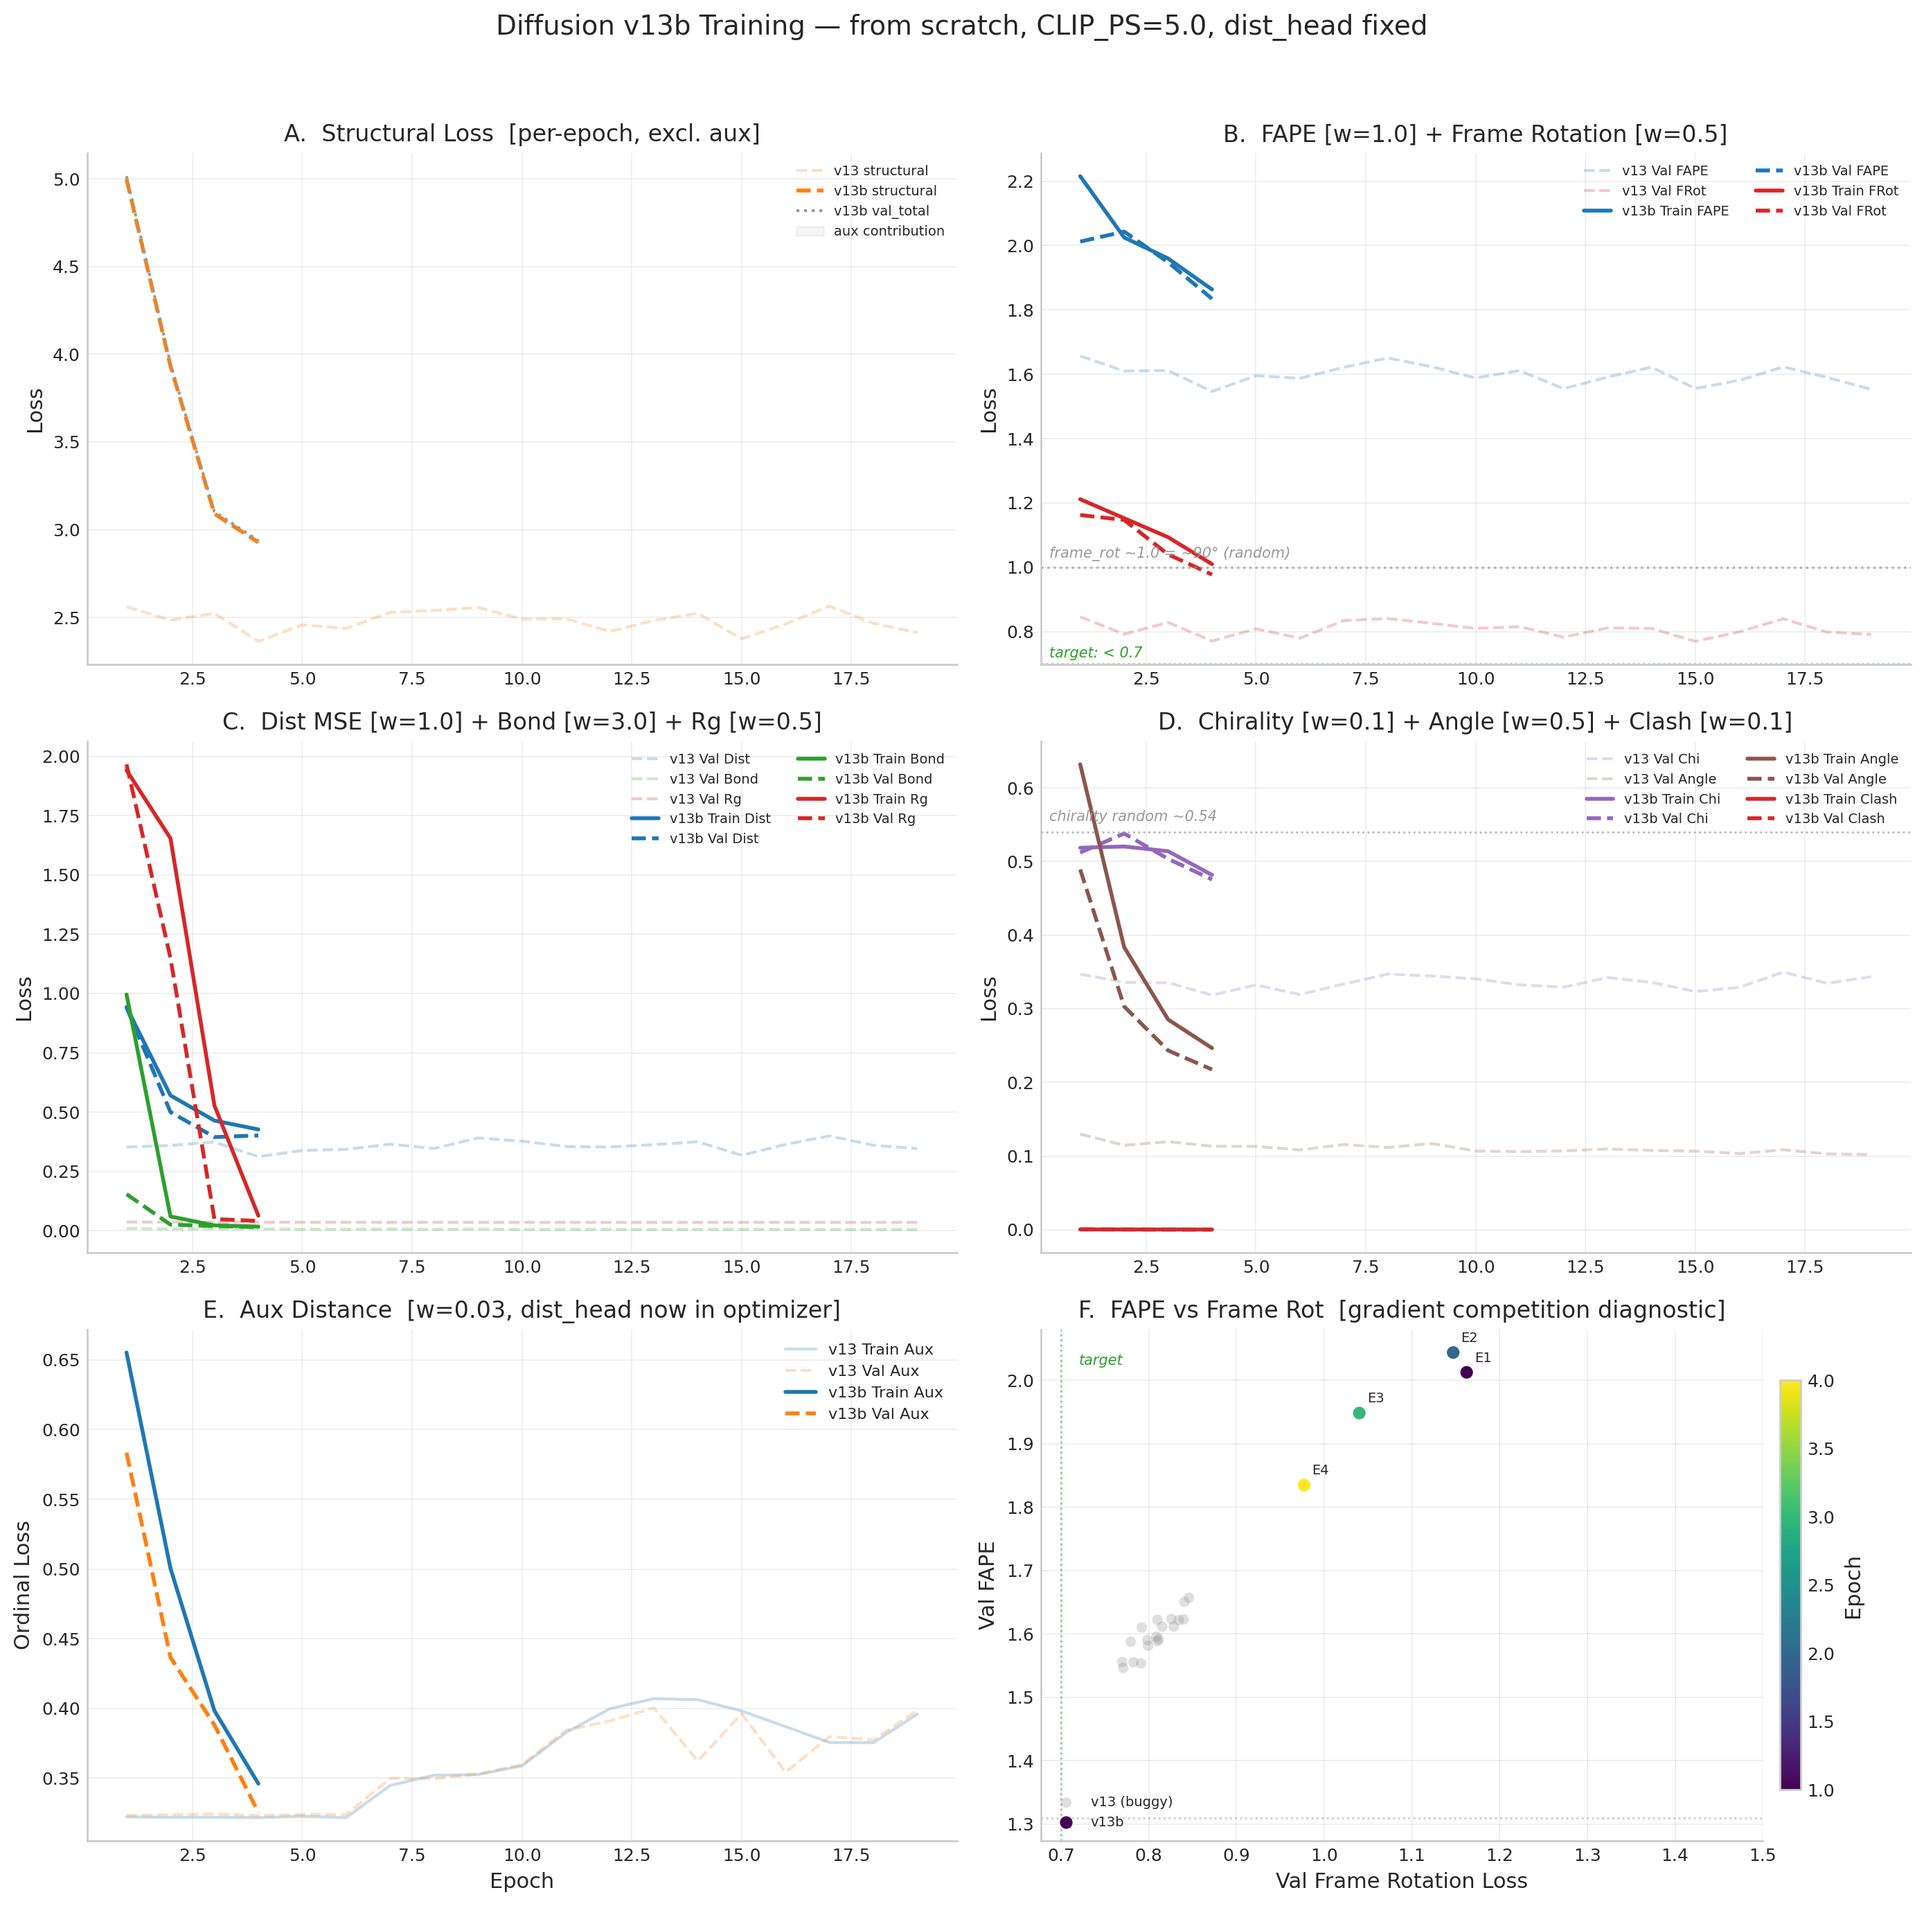
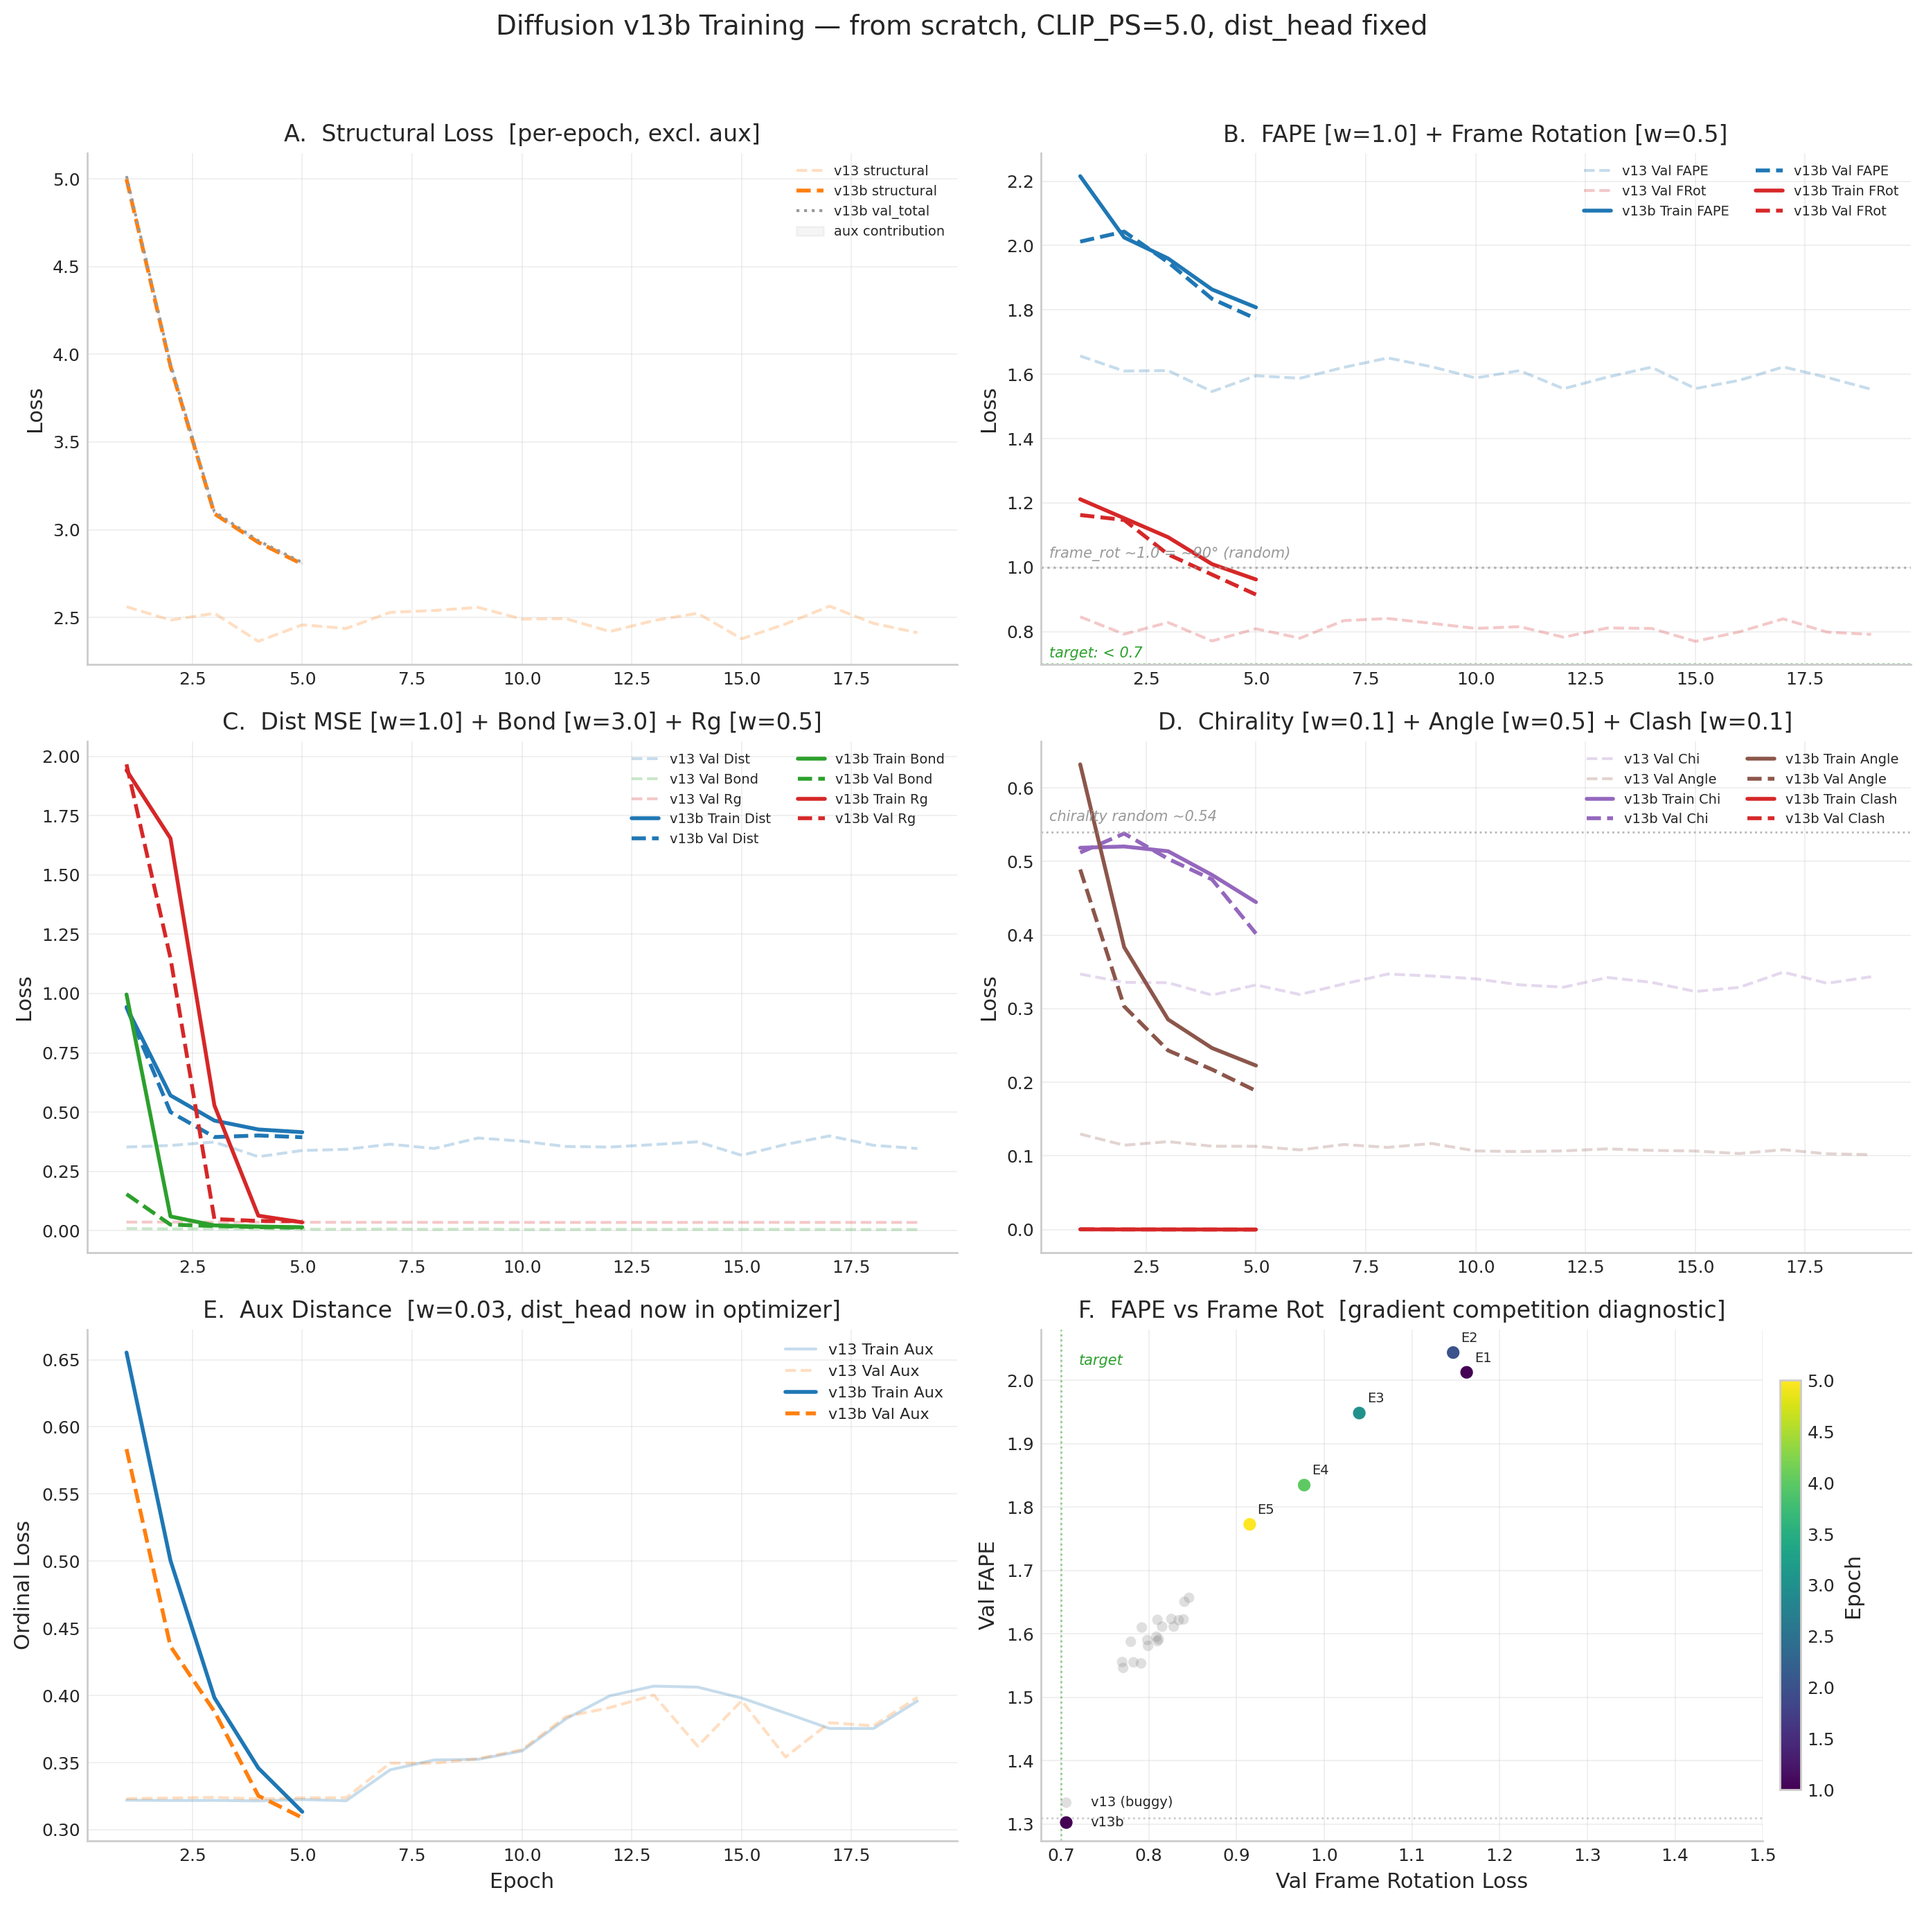
update v13b E5, v14 run2 from scratch

diff --git a/minifold.html b/minifold.html
@@ -433,6 +433,20 @@
               <td>&mdash;</td>
               <td><span class="tag tag-best">NEW BEST</span></td>
             </tr>
+            <tr>
+              <td><strong>5</strong></td>
+              <td style="color: #2ca02c;"><strong>2.804</strong></td>
+              <td>1.773</td>
+              <td>0.915</td>
+              <td>0.394</td>
+              <td>0.013</td>
+              <td>0.309</td>
+              <td>0.402</td>
+              <td>0.189</td>
+              <td>0.040</td>
+              <td>&mdash;</td>
+              <td><span class="tag tag-best">NEW BEST</span></td>
+            </tr>
           </tbody>
         </table>
       </div>
@@ -538,7 +552,7 @@
       <div class="arch-feature">
         <div class="af-label">Initialization</div>
         <div class="af-value">
-          Initialized from v13/v12b weights via <code>strict=False</code>. All existing modules (denoiser, pair stack, aux heads) load exact weights; the backbone reconstruction head trains from scratch.
+          <strong>run2:</strong> Training from scratch (no weight init). run1 used v13 weights via <code>strict=False</code> but plateaued due to bugs. run2 fixes: AuxPairStack contact conditioning, bb_rmsd metric, improved NaN fallback.
         </div>
       </div>
 
@@ -574,7 +588,16 @@
       </div>
 
       <!-- Training Table -->
-      <h4 class="training-progress-heading" style="margin-top: 24px;">v14 Training Progress</h4>
+      <h4 class="training-progress-heading" style="margin-top: 24px;">v14 run2 Training Progress</h4>
+      <div class="training-observations" style="border-left: 3px solid #2ca02c; padding-left: 14px; margin: 12px 0 12px 0;">
+        <p style="font-size: 0.92em; line-height: 1.6; margin: 4px 0;">
+          <strong>run2 (Mar 12, 2026):</strong> Fresh from scratch &mdash; no v13 weight init. Three bugs fixed from run1:
+          (1) AuxPairStack now uses contact_probs (was accepted but ignored),
+          (2) bb_rmsd actually computed in DDIM eval,
+          (3) NaN fallback rebuilds from finite components only.
+          Run1 data archived as faint overlay in loss curves.
+        </p>
+      </div>
       <div class="training-table-wrapper">
         <table class="training-table">
           <thead>
@@ -592,66 +615,7 @@
             </tr>
           </thead>
           <tbody id="v14-tbody">
-            <tr>
-              <td>1</td>
-              <td>2.496</td>
-              <td>1.607</td>
-              <td>0.818</td>
-              <td>0.367</td>
-              <td>1.598</td>
-              <td>0.005</td>
-              <td>0.073</td>
-              <td>0.101</td>
-              <td><span class="tag tag-best">NEW BEST</span></td>
-            </tr>
-            <tr>
-              <td>2</td>
-              <td>2.449</td>
-              <td>1.561</td>
-              <td>0.785</td>
-              <td>0.382</td>
-              <td>1.553</td>
-              <td>0.004</td>
-              <td>0.051</td>
-              <td>&mdash;</td>
-              <td><span class="tag tag-best">NEW BEST</span></td>
-            </tr>
-            <tr>
-              <td>3</td>
-              <td>2.502</td>
-              <td>1.595</td>
-              <td>0.819</td>
-              <td>0.380</td>
-              <td>1.586</td>
-              <td>0.004</td>
-              <td>0.055</td>
-              <td>&mdash;</td>
-              <td><span class="tag tag-pat">pat 1</span></td>
-            </tr>
-            <tr>
-              <td>4</td>
-              <td>2.510</td>
-              <td>1.592</td>
-              <td>0.818</td>
-              <td>0.389</td>
-              <td>1.582</td>
-              <td>0.004</td>
-              <td>0.040</td>
-              <td>&mdash;</td>
-              <td><span class="tag tag-pat">pat 2</span></td>
-            </tr>
-            <tr>
-              <td>5</td>
-              <td>2.504</td>
-              <td>1.572</td>
-              <td>0.816</td>
-              <td>0.401</td>
-              <td>1.564</td>
-              <td>0.004</td>
-              <td>0.042</td>
-              <td>&mdash;</td>
-              <td><span class="tag tag-pat">pat 3</span></td>
-            </tr>
+            <tr><td colspan="10" style="text-align: center; color: #888; font-style: italic; padding: 16px;">Epoch 1 in progress (started 01:25 UTC, ~65 min/epoch)&hellip;</td></tr>
           </tbody>
         </table>
       </div>
@@ -659,17 +623,17 @@
       <!-- v14 Loss Curves -->
       <h4 class="training-progress-heading">v14 Loss Curves</h4>
       <div style="text-align: center; margin: 16px 0;">
-        <img src="data/training/v14_loss_curves.png" alt="v14 loss curves (v13 faint overlay)" style="max-width: 100%; border-radius: 6px; border: 1px solid var(--border);">
+        <img src="data/training/v14_loss_curves.png" alt="v14 run2 loss curves (run1 faint overlay)" style="max-width: 100%; border-radius: 6px; border: 1px solid var(--border);">
       </div>
       <p style="font-size: 0.85em; color: var(--text-secondary); margin: 4px 0 16px 0;">
-        v14 (solid) vs v13 (faint). Includes backbone-specific losses (BB FAPE, BB Bond, Omega, BB Angle) with bb_ramp annotations.
-        Note: val_total increases early on because bb_ramp scales up backbone loss weights (0.2&rarr;1.0 over 5 epochs). Patience tracks CA-only structural loss instead.
+        v14 run2 (solid) vs run1 (faint). From scratch, all bugs fixed. Backbone losses (BB FAPE, BB Bond, Omega, BB Angle) with bb_ramp.
+        Patience tracks CA-only structural loss (excludes aux + backbone contributions).
       </p>
 
       <!-- v14 Pseudo-Ramachandran -->
       <h4 class="training-progress-heading">v14 Pseudo-Ramachandran</h4>
       <div class="training-observations" style="border-left: 3px solid #e74c3c; padding-left: 14px; margin: 16px 0;">
-        <h4>v14 Restarted &times;2 (Mar 11, 2026)</h4>
+        <h4>v14 run2 &mdash; Fresh Start (Mar 12, 2026)</h4>
         <p style="font-size: 0.92em; line-height: 1.6;">
           v14 has been restarted twice after comprehensive code audits revealed multiple bugs:
         </p>
